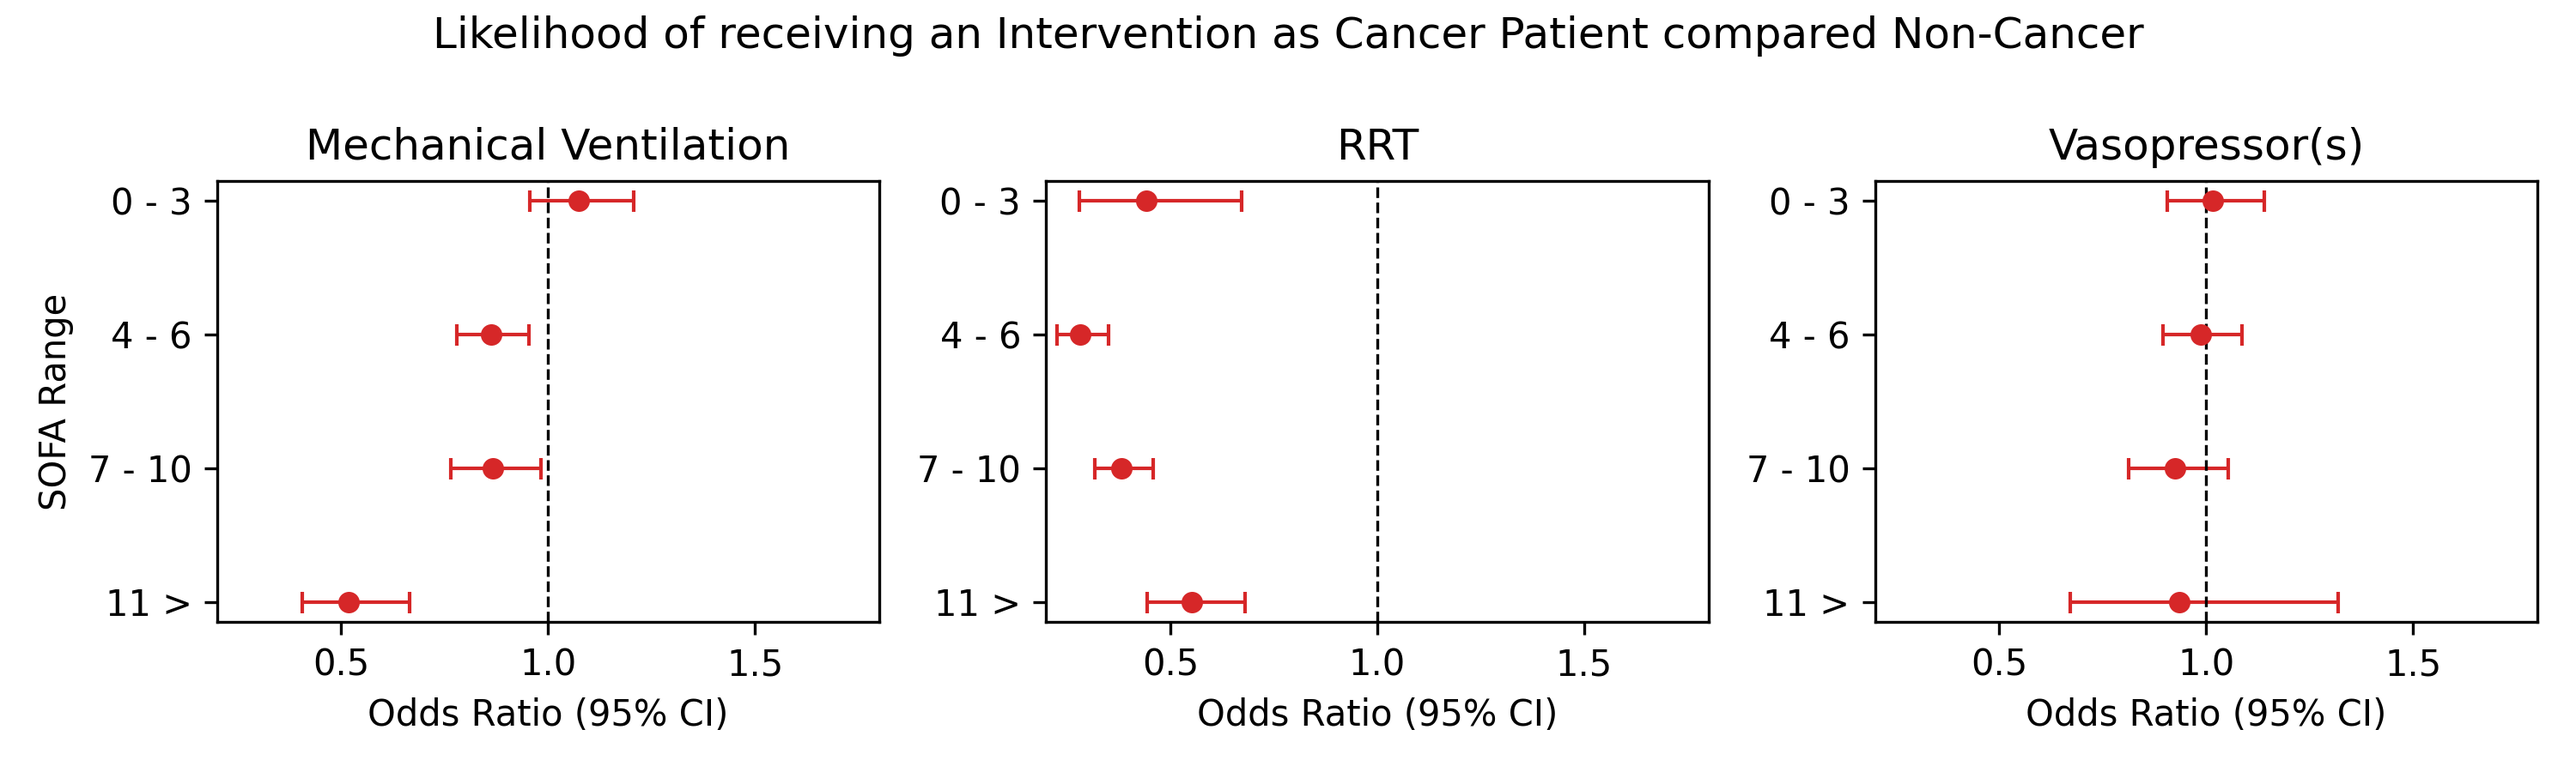
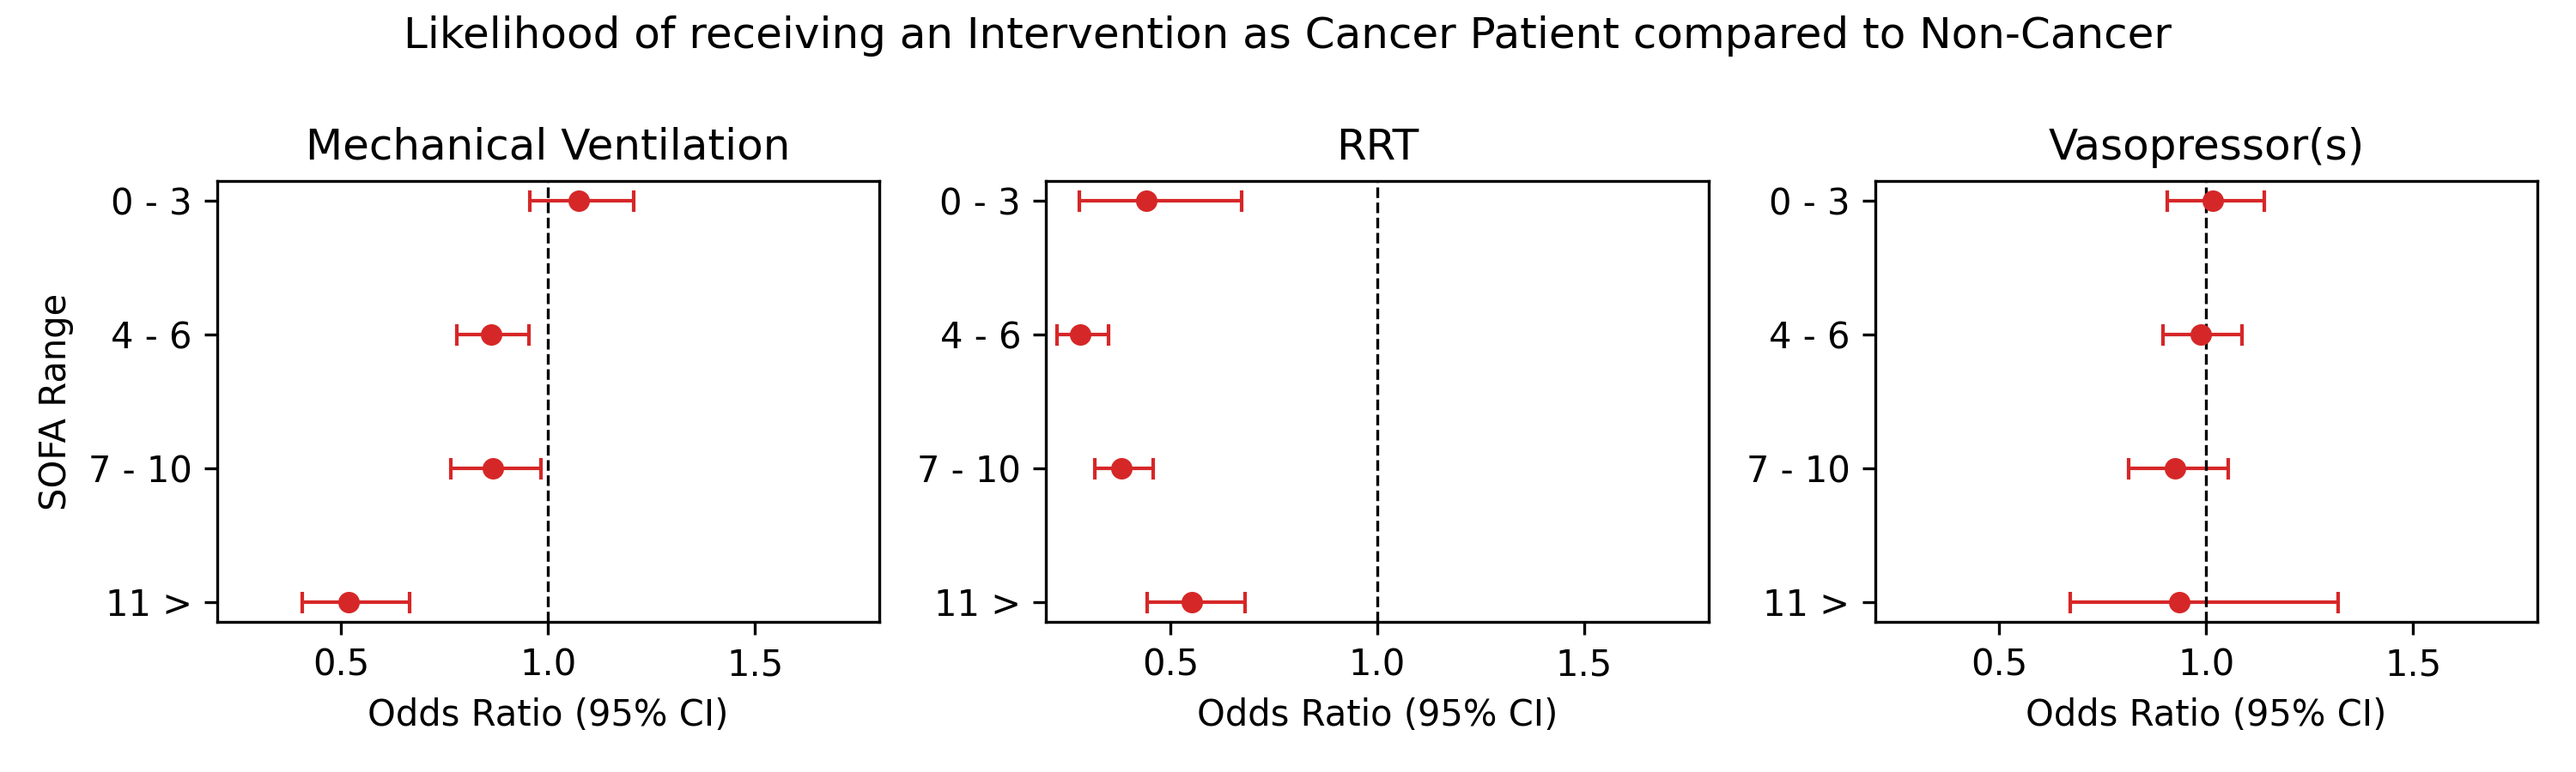
Fix Results' plot title and start by cancer type

Changed region(s): [[0.155, 0.0, 0.837, 0.0622]]

diff --git a/src/plots/1A.py b/src/plots/1A.py
@@ -17,11 +17,9 @@ sofas = {0: "0 - 3",
 
 yy = range(4, 0, -1)
 
+fig, ax = plt.subplots(1, 3, sharex=True, sharey=False, figsize=(10, 3))                           
 
-fig, ax = plt.subplots(1, 3, sharex=True, sharey=False, figsize=(10, 3))
-                           
-
-fig.suptitle(f"Likelihood of receiving an Intervention as Cancer Patient compared Non-Cancer")
+fig.suptitle(f"Likelihood of receiving an Intervention as Cancer Patient compared to Non-Cancer")
         
 df = pd.read_csv("results/glm/1A.csv")
 
@@ -32,11 +30,6 @@ for i, (t, t_name) in enumerate(treatments.items()):
         row = df[(df.treatment == t) & (df.sofa_min == sofa_min)]
 
         ci = [row['OR'] - row['CI_low'], row['CI_high'] - row['OR']]
-
-        # if y == 6:
-        #     lbl = d
-        # else:
-        #     lbl = None
 
         ax[i].errorbar(x=row['OR'], y=y, xerr=ci, \
                         ecolor="tab:red", color="tab:red", marker='o', \
